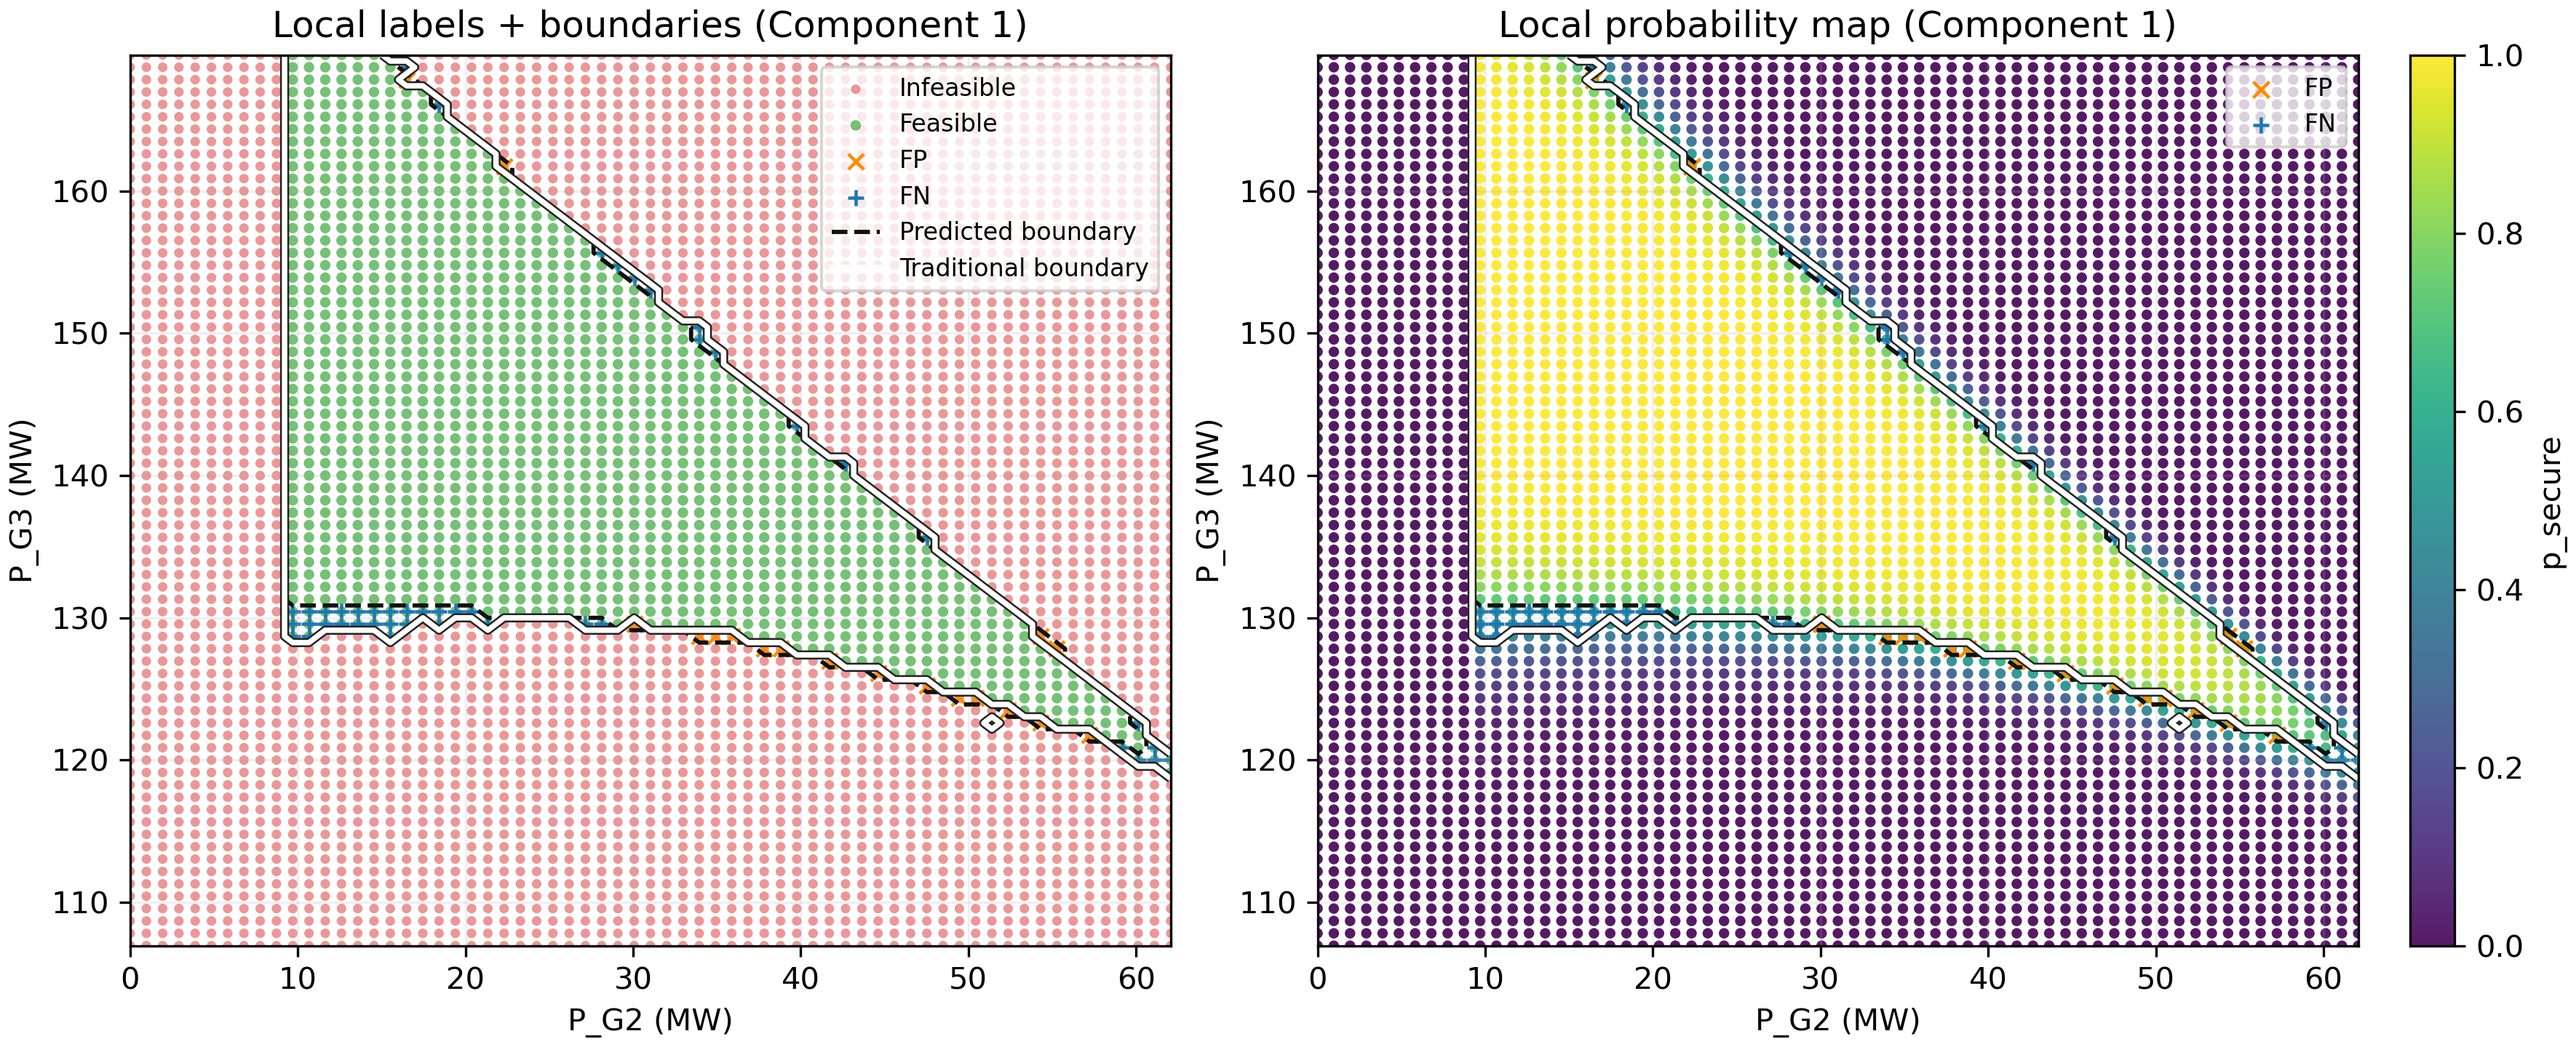
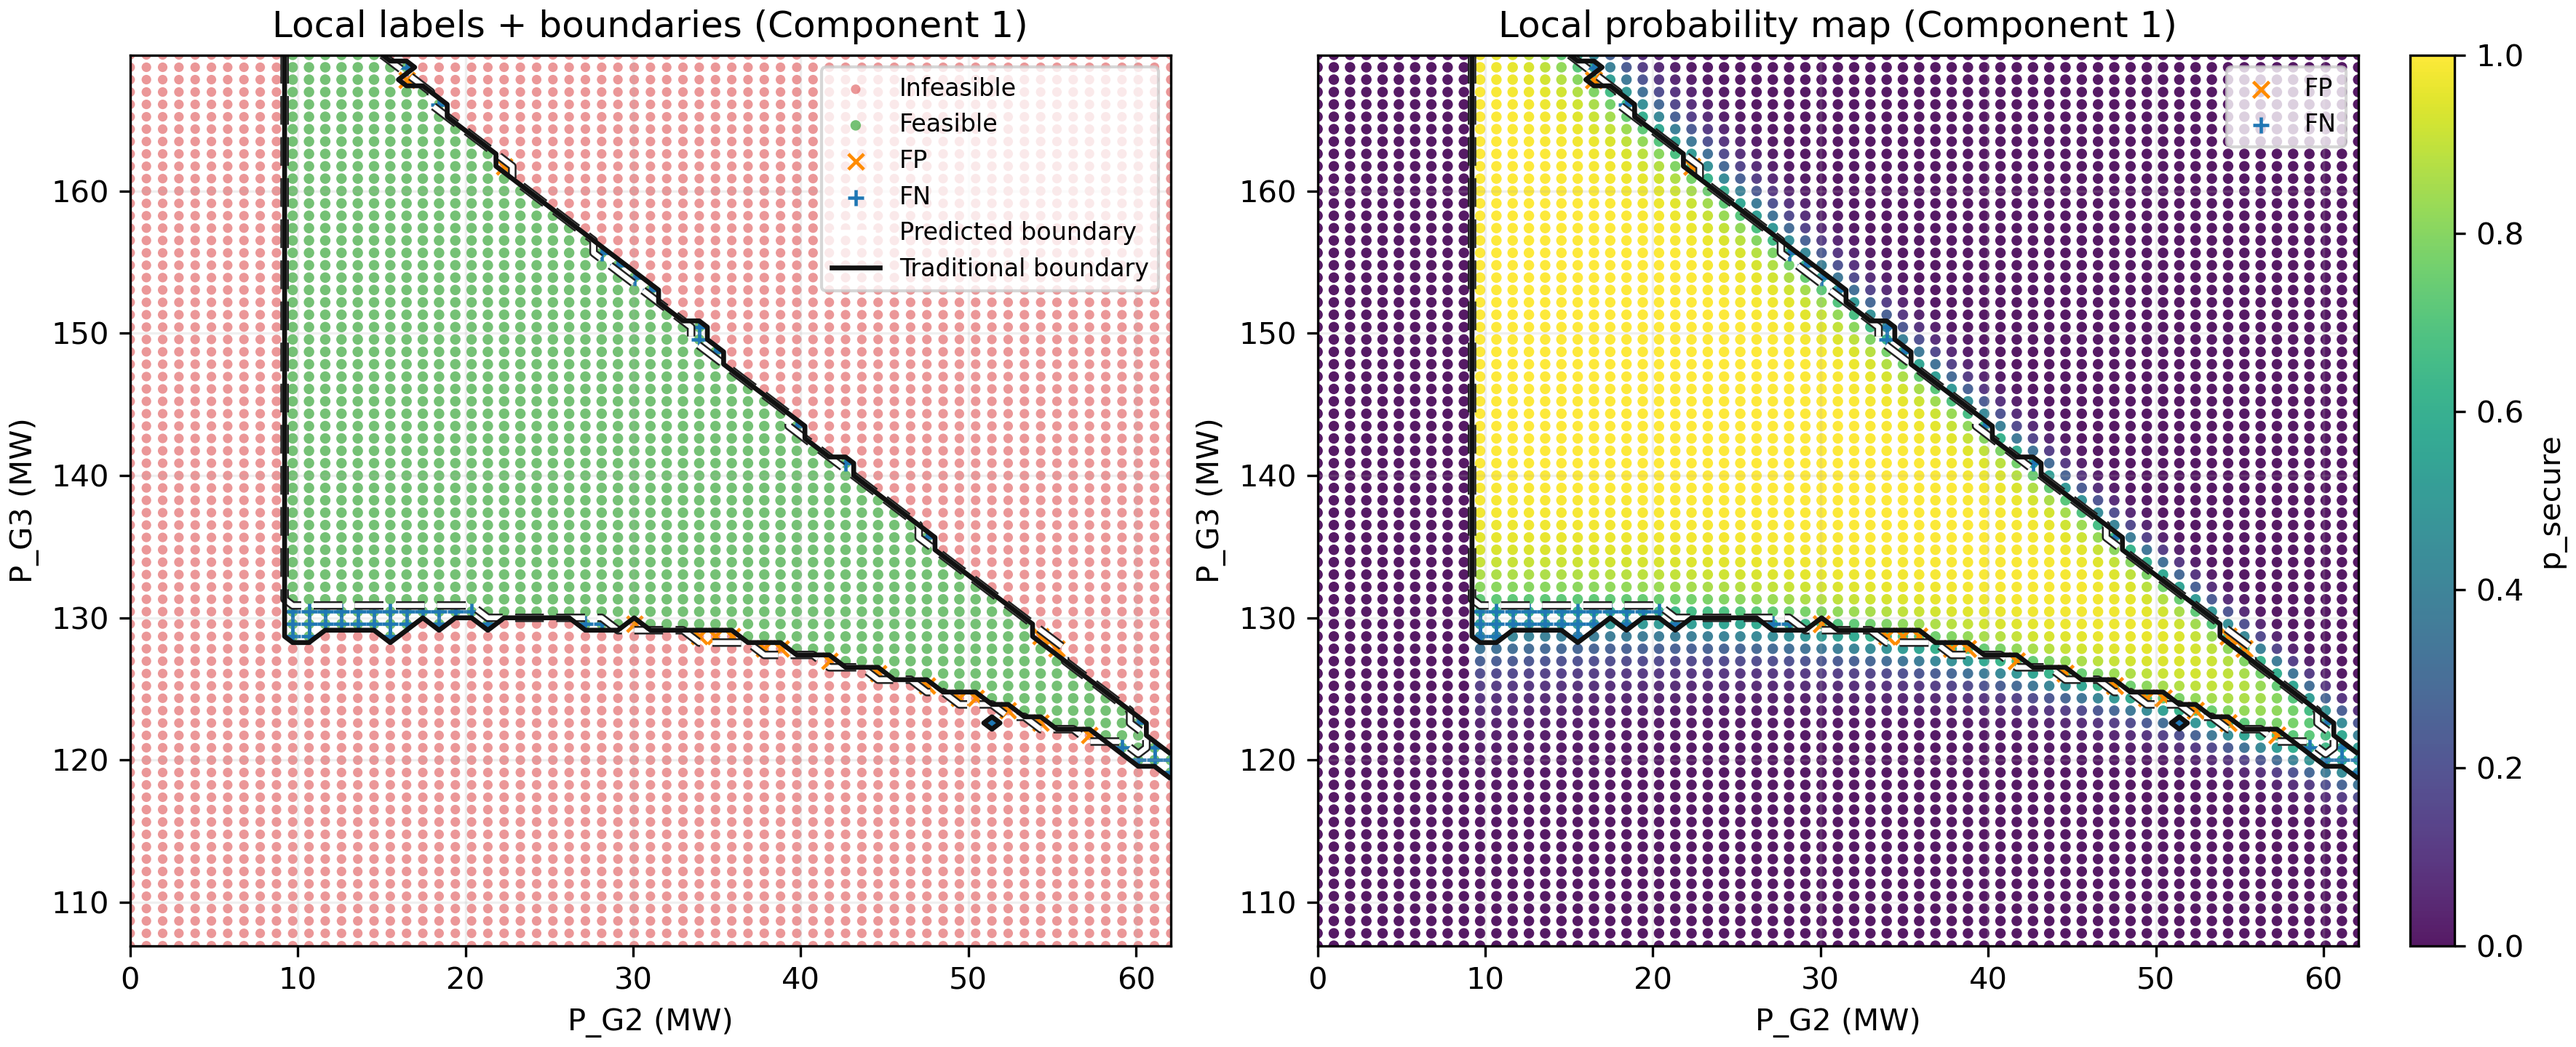
Align local boundary colors with project convention
Update component-wise local scatter plots so predicted boundary is white dashed and traditional boundary is black solid, then regenerate all three figures with the corrected legend mapping.

diff --git a/experiments/generate_case9_boundaryloop_local_scatter.py b/experiments/generate_case9_boundaryloop_local_scatter.py
@@ -133,12 +133,13 @@ def main() -> None:
         fig, axes = plt.subplots(1, 2, figsize=(11.8, 4.8), constrained_layout=True)
 
         def _draw_boundaries(ax):
-            # Predicted boundary: black dashed
-            ax.contour(XW, YW, prw, levels=[0.5], colors="#111111", linewidths=1.4, linestyles="--")
-            # Traditional boundary: white solid with dark stroke for visibility
-            cs = ax.contour(XW, YW, lw, levels=[0.5], colors="white", linewidths=1.8, linestyles="-")
-            for coll in cs.collections:
-                coll.set_path_effects([pe.Stroke(linewidth=3.0, foreground="#222222"), pe.Normal()])
+            # Predicted boundary: white dashed with dark stroke for visibility.
+            cs_pred = ax.contour(XW, YW, prw, levels=[0.5], colors="white", linewidths=1.6, linestyles="--")
+            for coll in cs_pred.collections:
+                coll.set_path_effects([pe.Stroke(linewidth=2.8, foreground="#222222"), pe.Normal()])
+
+            # Traditional boundary: black solid.
+            ax.contour(XW, YW, lw, levels=[0.5], colors="#111111", linewidths=1.6, linestyles="-")
 
         # Left: local label scatter + boundaries
         ax = axes[0]
@@ -157,8 +158,8 @@ def main() -> None:
         ax.set_xlabel("P_G2 (MW)")
         ax.set_ylabel("P_G3 (MW)")
         ax.grid(alpha=0.2)
-        ax.plot([], [], color="#111111", linestyle="--", linewidth=1.4, label="Predicted boundary")
-        ax.plot([], [], color="white", linestyle="-", linewidth=1.8, label="Traditional boundary")
+        ax.plot([], [], color="white", linestyle="--", linewidth=1.6, label="Predicted boundary")
+        ax.plot([], [], color="#111111", linestyle="-", linewidth=1.6, label="Traditional boundary")
         ax.legend(loc="upper right", fontsize=8)
 
         # Right: local probability scatter + boundaries
